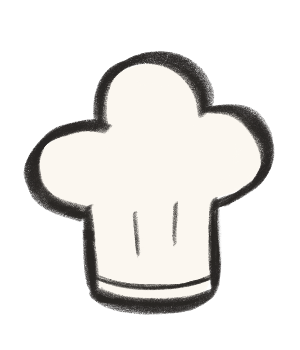
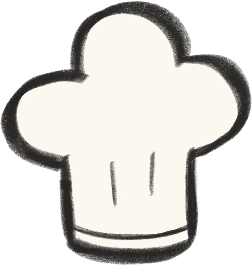
Font (#17)
* updated nomly logo on the header

* minor fix

---------

Changed region(s): [[0.0, 0.0, 1.0, 1.0], [0.5556, 0.5736, 0.6389, 0.7547]]

diff --git a/frontend/components/Header.tsx b/frontend/components/Header.tsx
@@ -16,9 +16,11 @@ export function Header() {
 
   return (
     <header className="mx-auto flex w-full max-w-6xl items-center justify-between px-5 py-6">
-      <Link href="/" className="flex items-center gap-2 font-serif text-2xl tracking-tight">
-        <Image src="/assets/chef_hat.webp" alt="" width={36} height={36} />
-        Nomly
+      <Link href="/" aria-label="Nomly home" className="flex items-end gap-0.5 justify-self-start sm:gap-1">
+        
+        <img src="/assets/nomly.webp" alt="Nomly" className="h-9 w-auto sm:h-11" />
+      
+        <img src="/assets/chef_hat.webp" alt="" aria-hidden="true" className="mb-2.5 h-6 w-auto rotate-[8deg] sm:mb-3.5 sm:h-8" />
       </Link>
       {loadingScreen ? null : (
         <nav className="flex items-center gap-2 text-sm" aria-label="Main">

diff --git a/frontend/components/LoadingScreen.tsx b/frontend/components/LoadingScreen.tsx
@@ -31,7 +31,7 @@ export function LoadingScreen({ destination }: { destination: string }) {
         src="/assets/chomp.gif"
         alt="Nomly loading animation"
         width={2388}
-        height={500}
+        height={510}
         unoptimized
         className="h-auto w-full max-w-xl"
 
